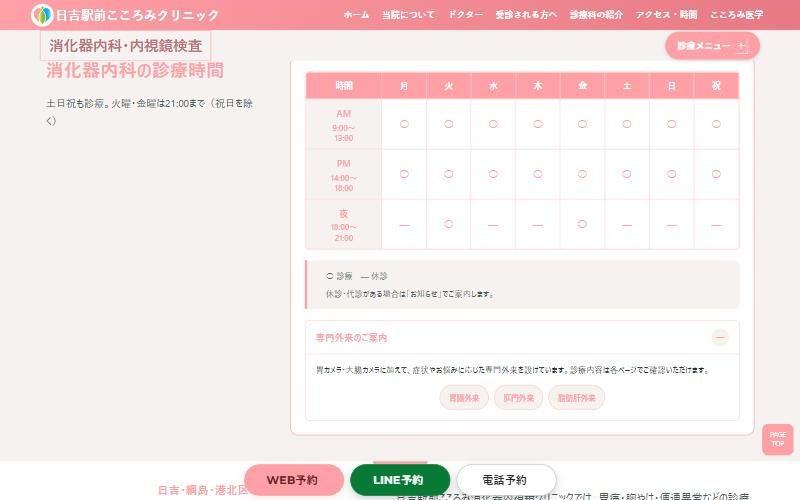
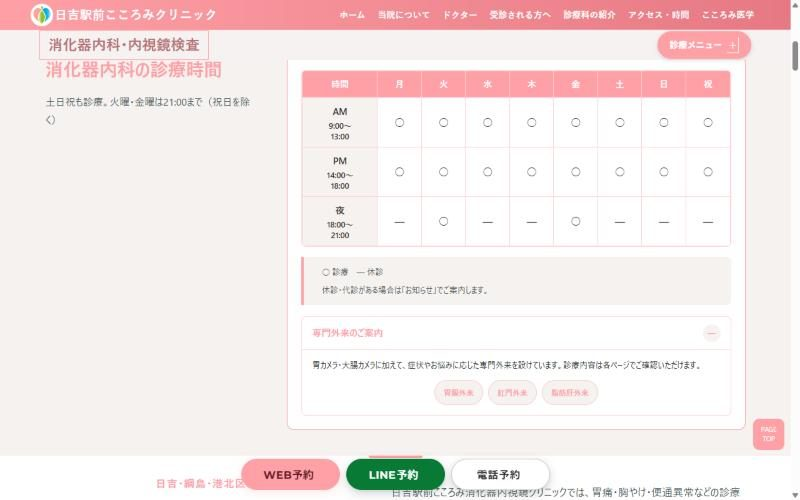
fix: 左下の小窓を外し、消化器の診療表と発熱外来の赤い面を落ち着かせる（v0.25.0）
- 見本の左下の黒い小窓を外す（8ページ）
- 消化器内科の診療表：時間の欄と ○・— を最初の画面の見出しと同じ墨 #34302F に
- 発熱外来：選ばれる3つの理由の緑の帯の前後の赤をベージュに、「日吉駅 直結0分 × 毎日 診療」の赤い帯を
  「受診前に確認したい記事」と同じ薄い赤に（2か所）、「予約優先制 WEBなら24時間受付」を小さく、
  画面下の赤い WEB予約ボタンの文字を白に

diff --git a/beige/index.html b/beige/index.html
@@ -4,7 +4,7 @@
 <meta charset="utf-8">
 <meta name="viewport" content="width=device-width, initial-scale=1">
 <meta name="robots" content="noindex,nofollow">
-<meta name="version" content="0.24.0">
+<meta name="version" content="0.25.0">
 <title>日吉 ベージュ統一の見本</title>
 <style>
 :root{--bg:#faf8f6;--card:#fff;--ink:#1f1d1b;--sub:#625b55;--line:#e6e0d9}
@@ -38,18 +38,35 @@ a:focus-visible{outline:3px solid #6a9bff;outline-offset:2px}
 <body>
 <main>
 <h1>日吉サイト ベージュで統一した見本（トップは総合内科の色）</h1>
-<p class="lead">「最初の画面の背景5パターン」のうち<b>2 ベージュ</b>を全科に採用し、<b>トップページを総合内科（ベージュ）と同じ色の見え方</b>で作った見本です。画像かページ名を押すと、本物と同じ作りのページが開きます（左下の小窓でページを移動できます）。本番サイトは変わっていません。</p>
+<p class="lead">「最初の画面の背景5パターン」のうち<b>2 ベージュ</b>を全科に採用し、<b>トップページを総合内科（ベージュ）と同じ色の見え方</b>で作った見本です。画像かページ名を押すと、本物と同じ作りのページが開きます（ページの中の診療科のリンクで、この見本の中を移動できます）。本番サイトは変わっていません。</p>
 <a class="go" href="top/">トップページを開く</a>
 
+<section class="box" aria-labelledby="v25-h">
+<h2 id="v25-h">今回（v0.25.0）変えたこと</h2>
+<ul>
+<li><b>画面左下の黒い小窓を外しました</b>（8ページすべて）</li>
+<li><b>消化器内科の診療表</b>：時間の欄（AM・PM・夜と時刻）と、各曜日の ○・— の文字を、最初の画面の「胃カメラ・大腸カメラが」と同じ墨 <code>#34302F</code> にしました。表の見出し行（ピンクの地に白い文字）はそのままです</li>
+<li><b>発熱外来「発熱外来が選ばれる3つの理由」</b>：緑の帯の前後に見えていた赤を、ベージュ <code>#F6F2F0</code> にしました。緑の帯はそのままです</li>
+<li><b>発熱外来「日吉駅 直結0分 × 毎日 診療」の赤い帯</b>：「受診前に確認したい記事」の囲みと同じ薄い赤にしました。地が薄くなったので、「直結0分」「毎日診療」「×」は発熱外来の赤、下の小さな文は濃い茶色の文字です。同じ帯がページの下の予約案内（「今日つらい」をその日にご相談）にもあるので、2か所とも同じにしました</li>
+<li><b>「予約優先制 WEBなら24時間受付」</b>：文字を小さくしました（約42px・75px → 約32px・49px。パソコン幅だけ。スマホ幅はもともと小さいので今のまま）。右上の小さな札が大きい文字にかからないよう、札を少し上げています</li>
+<li><b>画面の下の赤い「WEB予約」ボタン</b>：文字を白にしました（前は赤い地に濃いえんじの文字で読みにくかった）</li>
+</ul>
+<div class="shots">
+<a href="gastro/"><img src="img/gastro-hours.jpg" width="800" height="500" alt="消化器内科の診療表（時間と ○ を墨の文字に）" loading="lazy"><span>消化器：診療表</span></a>
+<a href="fever/"><img src="img/fever-reason.jpg" width="800" height="500" alt="発熱外来が選ばれる3つの理由（前後をベージュに）" loading="lazy"><span>発熱外来：選ばれる3つの理由</span></a>
+<a href="fever/"><img src="img/fever-booking.jpg" width="800" height="500" alt="予約優先制の案内（薄い赤の帯・小さくした文字・白い文字のWEB予約）" loading="lazy"><span>発熱外来：予約の案内と下のWEB予約</span></a>
+</div>
+</section>
+
 <section class="box" aria-labelledby="v24-h">
-<h2 id="v24-h">今回（v0.24.0）変えたこと</h2>
+<h2 id="v24-h">前回（v0.24.0）変えたこと</h2>
 <ul>
 <li><b>グロナビのロゴの後ろに白い丸</b>を敷きました（8ページすべて・スマホも）。ロゴの花びら（黄・緑・青＋そのページの色）がヘッダーの色に溶けて見えなかったためです。ヘッダーの色そのものは変えていません（薄くすると白いクリニック名・メニューが読めなくなるため）。ロゴとクリニック名の位置も変わっていません</li>
 <li><b>トップのロゴの花びら</b>（1枚だけページの色）を、ピンクから総合内科と同じオレンジにしました（ヘッダー・フッターの2か所）。各科のロゴも「花びら＝そのページの色」なので、それにそろえました</li>
 <li><b>消化器内科のページの薄いピンクの地をベージュに</b>しました。「消化器内科の診療時間」「こんなお悩み・症状はありませんか?」と、同じピンクの地を使っていた「検査の流れ」「よくある質問」の4つの帯です（2つだけ変えると、ベージュとピンクの帯が交互に並ぶため）。中の薄いピンクの地（表の曜日の欄・注意書き・症状の見出しなど）もベージュにしました。文字・チェックの印・表の見出し行・線は消化器のピンクのままです</li>
 </ul>
 <div class="shots">
-<a href="gastro/"><img src="img/gastro-hours.jpg" width="800" height="500" alt="消化器内科の診療時間（ベージュの地）" loading="lazy"><span>消化器：診療時間</span></a>
+<a href="gastro/"><img src="img/gastro-hours.jpg" width="800" height="500" alt="消化器内科の診療時間（ベージュの地）" loading="lazy"><span>消化器：診療時間（v0.25.0 の表の文字の色も反映）</span></a>
 <a href="gastro/"><img src="img/gastro-problems.jpg" width="800" height="500" alt="こんなお悩み・症状はありませんか?（ベージュの地）" loading="lazy"><span>消化器：お悩み・症状</span></a>
 </div>
 </section>

diff --git a/beige/assets/bge.css b/beige/assets/bge.css
@@ -46,3 +46,41 @@ html.bge:not(#_a):not(#_b) body#gastroenterology-endoscopy #department-visit-inf
 html.bge:not(#_a):not(#_b) body#gastroenterology-endoscopy #front-probrems .div-section-content > .div-probrems{background:color-mix(in srgb,#BFAFAE 28%,#F6F2F0)!important}
 html.bge:not(#_a):not(#_b) body#gastroenterology-endoscopy #front-probrems .div-probrems-section dl.dl-probrems > dt,
 html.bge:not(#_a):not(#_b) body#gastroenterology-endoscopy #front-probrems .p-solution-catchline{background:#F6F2F0!important}
+
+/* ===== 消化器内科の診療表の文字を墨に（v0.25.0） =====
+   ご依頼（2026-11-26）：「消化器内科の診療表がかわいらしすぎる。時間等の文字色をトップの「胃カメラ・大腸カメラが」と同じ文字色にして」
+   「胃カメラ・大腸カメラが」（最初の画面の見出し）の色＝ベージュの文字の墨 #34302F（fvp.css の --fv-ink）。
+   表の中の時間の欄（AM・PM・夜と時刻）と、各曜日の ○・— を墨に。表の見出し行（ピンクの地・白い文字）、表の外の見出し「消化器内科の診療時間」、専門外来の案内はそのまま */
+html.bge:not(#_a):not(#_b) body#gastroenterology-endoscopy #department-visit-info .department-visit-info__table tbody :is(th,td),
+html.bge:not(#_a):not(#_b) body#gastroenterology-endoscopy #department-visit-info .department-visit-info__table tbody :is(th,td) *{color:#34302F!important}
+
+/* ===== 発熱外来のページ（v0.25.0） ===== */
+/* 「発熱外来が選ばれる3つの理由」：緑の帯の前後に見えていた赤（--dp-deep）をベージュに
+   ご依頼「背景緑の前後の赤とのコントラストがきつすぎる。前後の赤の背景は、ベージュにして」。緑の帯はそのまま */
+html.bge:not(#_a):not(#_b) body#fever main #front-reason{background:#F6F2F0!important}
+
+/* 「日吉駅 直結0分 × 毎日 診療」の赤い帯を、「受診前に確認したい記事」の囲みと同じ薄い赤に
+   ご依頼「赤で面積が大きいので目立ちすぎ。「受診前に確認したい記事」の背景色につかってる薄い赤にして」
+   同じ帯がページの下の「発熱・せき・のどの痛み」の予約案内にもあるので、2か所とも（最初の画面の中の同じ部品は除く）。
+   地が薄くなるので、白かった文字は「直結0分」「毎日診療」「×」を発熱外来の赤、下の小さな文は「受診前に確認したい記事」の囲みの文字の色に */
+html.bge:not(#_a):not(#_b) body#fever .section-cta .div-cta-catchline{background-color:var(--reservation-soft,color-mix(in srgb,var(--jt-tint,var(--jt-main)) 12%,#fff))!important}
+html.bge:not(#_a):not(#_b) body#fever .section-cta .div-cta-catchline :is(li,li *,.multiply){color:var(--jfever-main)!important}
+html.bge:not(#_a):not(#_b) body#fever .section-cta .div-cta-catchline .p-cta-catchline{color:#3F3933!important}
+
+/* 「予約優先制 WEBなら24時間受付」の文字を小さく（パソコン幅。スマホ幅は今のまま）
+   ご依頼「このフォントサイズも大きすぎるので、もう少し小さく」。
+   サイト側のスマホ幅の大きさ（3.6rem・5.6rem＝約32px・49px）にそろえた（前は約42px・75px） */
+@media (min-width:769px){
+  html.bge:not(#_a):not(#_b) body#fever .dept-compact-booking .div-cta-title .h-cta-subtitle{font-size:3.6rem!important}
+  html.bge:not(#_a):not(#_b) body#fever .dept-compact-booking .div-cta-title .h-cta-subtitle > strong{font-size:5.6rem!important}
+  /* 右上の小さな札「発熱・かぜ症状は、その日にご相談ください」は大きい文字の右端に付く作りで、文字を小さくすると左に寄って
+     「WEBなら24時間受付」の上端にかかった → 札の下げ幅（サイト側 translateY(2rem)）を 1rem に */
+  html.bge:not(#_a):not(#_b) body#fever .dept-compact-booking .div-cta-title .h-cta-title{transform:translateY(1rem)!important}
+}
+
+/* 画面の下に固定の「WEB予約」（赤いボタン）の文字を白に
+   ご依頼「画面下の web予約ボタン 赤いやつ。文字は白地に」。いまは赤 #BF3F48 の上に濃いえんじ（約 2.4:1）で読みにくい。白なら 5.2:1
+   ボタンの文字色はサイトのスクリプトが要素の style に「color:var(--reservation-sticky-text)!important」と直接書くので、CSS の color では勝てない。
+   その変数（ふだんは html の濃いえんじ）を、このボタンの上でだけ白に置き直す */
+html.bge:not(#_a):not(#_b) body#fever #cta :is(.a-button-cta-web,.reservation-sticky-web),
+html.bge:not(#_a):not(#_b) body#fever #cta :is(.a-button-cta-web,.reservation-sticky-web) *{--reservation-sticky-text:#fff!important;color:#fff!important}

diff --git a/beige/checkups/index.html b/beige/checkups/index.html
@@ -5,9 +5,9 @@
 <meta name="robots" content="noindex,nofollow">
 <script>document.documentElement.classList.add("fvp","fvr","fv2","fvL","bge");</script>
 
-<link rel="stylesheet" href="../assets/sample.css?v=0.24.0">
-<link rel="stylesheet" href="../assets/fvp.css?v=0.24.0">
-<link rel="stylesheet" href="../assets/bge.css?v=0.24.0">
+<link rel="stylesheet" href="../assets/sample.css?v=0.25.0">
+<link rel="stylesheet" href="../assets/fvp.css?v=0.25.0">
+<link rel="stylesheet" href="../assets/bge.css?v=0.25.0">
 
 
 
@@ -1675,7 +1675,7 @@ margin-block-end: 24px;
 var e="script#wp-emoji-settings",t=document.querySelector(e);if(!(t instanceof HTMLScriptElement))throw new Error("Element missing: "+e);const r=JSON.parse(t.text),s=(window._wpemojiSettings=r,"wpEmojiSettingsSupports"),o=["flag","emoji"];function i(e){try{var t={supportTests:e,timestamp:(new Date).valueOf()};sessionStorage.setItem(s,JSON.stringify(t))}catch(e){}}function c(e,t,n){e.clearRect(0,0,e.canvas.width,e.canvas.height),e.fillText(t,0,0);t=new Uint32Array(e.getImageData(0,0,e.canvas.width,e.canvas.height).data);e.clearRect(0,0,e.canvas.width,e.canvas.height),e.fillText(n,0,0);const r=new Uint32Array(e.getImageData(0,0,e.canvas.width,e.canvas.height).data);return t.every((e,t)=>e===r[t])}function p(e,t){e.clearRect(0,0,e.canvas.width,e.canvas.height),e.fillText(t,0,0);var n=e.getImageData(16,16,1,1);for(let e=0;e<n.data.length;e++)if(0!==n.data[e])return!1;return!0}function u(e,t,n,r){switch(t){case"flag":return n(e,"\ud83c\udff3\ufe0f\u200d\u26a7\ufe0f","\ud83c\udff3\ufe0f\u200b\u26a7\ufe0f")?!1:!n(e,"\ud83c\udde8\ud83c\uddf6","\ud83c\udde8\u200b\ud83c\uddf6")&&!n(e,"\ud83c\udff4\udb40\udc67\udb40\udc62\udb40\udc65\udb40\udc6e\udb40\udc67\udb40\udc7f","\ud83c\udff4\u200b\udb40\udc67\u200b\udb40\udc62\u200b\udb40\udc65\u200b\udb40\udc6e\u200b\udb40\udc67\u200b\udb40\udc7f");case"emoji":return!r(e,"\ud83e\u1fac8")}return!1}function f(e,t,n,r){let a;const s=(a="undefined"!=typeof WorkerGlobalScope&&self instanceof WorkerGlobalScope?new OffscreenCanvas(300,150):document.createElement("canvas")).getContext("2d",{willReadFrequently:!0}),o=(s.textBaseline="top",s.font="600 32px Arial",{});return e.forEach(e=>{o[e]=t(s,e,n,r)}),o}function a(e){var t=document.createElement("script");t.src=e,t.defer=!0,document.head.appendChild(t)}r.supports={everything:!0,everythingExceptFlag:!0},new Promise(t=>{let n=function(){try{var e=JSON.parse(sessionStorage.getItem(s));if("object"==typeof e&&"number"==typeof e.timestamp&&(new Date).valueOf()<e.timestamp+604800&&"object"==typeof e.supportTests)return e.supportTests}catch(e){}return null}();if(!n){if("undefined"!=typeof Worker&&"undefined"!=typeof OffscreenCanvas&&"undefined"!=typeof URL&&URL.createObjectURL&&"undefined"!=typeof Blob)try{var e="postMessage("+f.toString()+"("+[JSON.stringify(o),u.toString(),c.toString(),p.toString()].join(",")+"));",r=new Blob([e],{type:"text/javascript"});const a=new Worker(URL.createObjectURL(r),{name:"wpTestEmojiSupports"});return void(a.onmessage=e=>{i(n=e.data),a.terminate(),t(n)})}catch(e){}i(n=f(o,u,c,p))}t(n)}).then(e=>{for(const n in e)r.supports[n]=e[n],r.supports.everything=r.supports.everything&&r.supports[n],"flag"!==n&&(r.supports.everythingExceptFlag=r.supports.everythingExceptFlag&&r.supports[n]);var t;r.supports.everythingExceptFlag=r.supports.everythingExceptFlag&&!r.supports.flag,r.supports.everything||((t=r.source||{}).concatemoji?a(t.concatemoji):t.wpemoji&&t.twemoji&&(a(t.twemoji),a(t.wpemoji)))});
 //# sourceURL=https://hiyoshi-cocoromi-cl.jp/wp-includes/js/wp-emoji-loader.min.js
 </script>
-  <script src="../assets/bge.js?v=0.24.0" data-page="checkups"></script>
+  <!-- 見本の左下の小窓は v0.25.0 で外した -->
 </body>
 </html>
 

diff --git a/beige/general/index.html b/beige/general/index.html
@@ -5,9 +5,9 @@
 <meta name="robots" content="noindex,nofollow">
 <script>document.documentElement.classList.add("fvp","fvr","fv2","fvL","bge");</script>
 
-<link rel="stylesheet" href="../assets/sample.css?v=0.24.0">
-<link rel="stylesheet" href="../assets/fvp.css?v=0.24.0">
-<link rel="stylesheet" href="../assets/bge.css?v=0.24.0">
+<link rel="stylesheet" href="../assets/sample.css?v=0.25.0">
+<link rel="stylesheet" href="../assets/fvp.css?v=0.25.0">
+<link rel="stylesheet" href="../assets/bge.css?v=0.25.0">
 
 
 
@@ -1951,7 +1951,7 @@ margin-block-end: 24px;
 var e="script#wp-emoji-settings",t=document.querySelector(e);if(!(t instanceof HTMLScriptElement))throw new Error("Element missing: "+e);const r=JSON.parse(t.text),s=(window._wpemojiSettings=r,"wpEmojiSettingsSupports"),o=["flag","emoji"];function i(e){try{var t={supportTests:e,timestamp:(new Date).valueOf()};sessionStorage.setItem(s,JSON.stringify(t))}catch(e){}}function c(e,t,n){e.clearRect(0,0,e.canvas.width,e.canvas.height),e.fillText(t,0,0);t=new Uint32Array(e.getImageData(0,0,e.canvas.width,e.canvas.height).data);e.clearRect(0,0,e.canvas.width,e.canvas.height),e.fillText(n,0,0);const r=new Uint32Array(e.getImageData(0,0,e.canvas.width,e.canvas.height).data);return t.every((e,t)=>e===r[t])}function p(e,t){e.clearRect(0,0,e.canvas.width,e.canvas.height),e.fillText(t,0,0);var n=e.getImageData(16,16,1,1);for(let e=0;e<n.data.length;e++)if(0!==n.data[e])return!1;return!0}function u(e,t,n,r){switch(t){case"flag":return n(e,"\ud83c\udff3\ufe0f\u200d\u26a7\ufe0f","\ud83c\udff3\ufe0f\u200b\u26a7\ufe0f")?!1:!n(e,"\ud83c\udde8\ud83c\uddf6","\ud83c\udde8\u200b\ud83c\uddf6")&&!n(e,"\ud83c\udff4\udb40\udc67\udb40\udc62\udb40\udc65\udb40\udc6e\udb40\udc67\udb40\udc7f","\ud83c\udff4\u200b\udb40\udc67\u200b\udb40\udc62\u200b\udb40\udc65\u200b\udb40\udc6e\u200b\udb40\udc67\u200b\udb40\udc7f");case"emoji":return!r(e,"\ud83e\u1fac8")}return!1}function f(e,t,n,r){let a;const s=(a="undefined"!=typeof WorkerGlobalScope&&self instanceof WorkerGlobalScope?new OffscreenCanvas(300,150):document.createElement("canvas")).getContext("2d",{willReadFrequently:!0}),o=(s.textBaseline="top",s.font="600 32px Arial",{});return e.forEach(e=>{o[e]=t(s,e,n,r)}),o}function a(e){var t=document.createElement("script");t.src=e,t.defer=!0,document.head.appendChild(t)}r.supports={everything:!0,everythingExceptFlag:!0},new Promise(t=>{let n=function(){try{var e=JSON.parse(sessionStorage.getItem(s));if("object"==typeof e&&"number"==typeof e.timestamp&&(new Date).valueOf()<e.timestamp+604800&&"object"==typeof e.supportTests)return e.supportTests}catch(e){}return null}();if(!n){if("undefined"!=typeof Worker&&"undefined"!=typeof OffscreenCanvas&&"undefined"!=typeof URL&&URL.createObjectURL&&"undefined"!=typeof Blob)try{var e="postMessage("+f.toString()+"("+[JSON.stringify(o),u.toString(),c.toString(),p.toString()].join(",")+"));",r=new Blob([e],{type:"text/javascript"});const a=new Worker(URL.createObjectURL(r),{name:"wpTestEmojiSupports"});return void(a.onmessage=e=>{i(n=e.data),a.terminate(),t(n)})}catch(e){}i(n=f(o,u,c,p))}t(n)}).then(e=>{for(const n in e)r.supports[n]=e[n],r.supports.everything=r.supports.everything&&r.supports[n],"flag"!==n&&(r.supports.everythingExceptFlag=r.supports.everythingExceptFlag&&r.supports[n]);var t;r.supports.everythingExceptFlag=r.supports.everythingExceptFlag&&!r.supports.flag,r.supports.everything||((t=r.source||{}).concatemoji?a(t.concatemoji):t.wpemoji&&t.twemoji&&(a(t.twemoji),a(t.wpemoji)))});
 //# sourceURL=https://hiyoshi-cocoromi-cl.jp/wp-includes/js/wp-emoji-loader.min.js
 </script>
-  <script src="../assets/bge.js?v=0.24.0" data-page="general"></script>
+  <!-- 見本の左下の小窓は v0.25.0 で外した -->
 </body>
 </html>
 

diff --git a/beige/gastro/index.html b/beige/gastro/index.html
@@ -5,9 +5,9 @@
 <meta name="robots" content="noindex,nofollow">
 <script>document.documentElement.classList.add("fvp","fvr","fv2","fvL","bge");</script>
 
-<link rel="stylesheet" href="../assets/sample.css?v=0.24.0">
-<link rel="stylesheet" href="../assets/fvp.css?v=0.24.0">
-<link rel="stylesheet" href="../assets/bge.css?v=0.24.0">
+<link rel="stylesheet" href="../assets/sample.css?v=0.25.0">
+<link rel="stylesheet" href="../assets/fvp.css?v=0.25.0">
+<link rel="stylesheet" href="../assets/bge.css?v=0.25.0">
 
 
 
@@ -2148,7 +2148,7 @@ margin-block-end: 24px;
 var e="script#wp-emoji-settings",t=document.querySelector(e);if(!(t instanceof HTMLScriptElement))throw new Error("Element missing: "+e);const r=JSON.parse(t.text),s=(window._wpemojiSettings=r,"wpEmojiSettingsSupports"),o=["flag","emoji"];function i(e){try{var t={supportTests:e,timestamp:(new Date).valueOf()};sessionStorage.setItem(s,JSON.stringify(t))}catch(e){}}function c(e,t,n){e.clearRect(0,0,e.canvas.width,e.canvas.height),e.fillText(t,0,0);t=new Uint32Array(e.getImageData(0,0,e.canvas.width,e.canvas.height).data);e.clearRect(0,0,e.canvas.width,e.canvas.height),e.fillText(n,0,0);const r=new Uint32Array(e.getImageData(0,0,e.canvas.width,e.canvas.height).data);return t.every((e,t)=>e===r[t])}function p(e,t){e.clearRect(0,0,e.canvas.width,e.canvas.height),e.fillText(t,0,0);var n=e.getImageData(16,16,1,1);for(let e=0;e<n.data.length;e++)if(0!==n.data[e])return!1;return!0}function u(e,t,n,r){switch(t){case"flag":return n(e,"\ud83c\udff3\ufe0f\u200d\u26a7\ufe0f","\ud83c\udff3\ufe0f\u200b\u26a7\ufe0f")?!1:!n(e,"\ud83c\udde8\ud83c\uddf6","\ud83c\udde8\u200b\ud83c\uddf6")&&!n(e,"\ud83c\udff4\udb40\udc67\udb40\udc62\udb40\udc65\udb40\udc6e\udb40\udc67\udb40\udc7f","\ud83c\udff4\u200b\udb40\udc67\u200b\udb40\udc62\u200b\udb40\udc65\u200b\udb40\udc6e\u200b\udb40\udc67\u200b\udb40\udc7f");case"emoji":return!r(e,"\ud83e\u1fac8")}return!1}function f(e,t,n,r){let a;const s=(a="undefined"!=typeof WorkerGlobalScope&&self instanceof WorkerGlobalScope?new OffscreenCanvas(300,150):document.createElement("canvas")).getContext("2d",{willReadFrequently:!0}),o=(s.textBaseline="top",s.font="600 32px Arial",{});return e.forEach(e=>{o[e]=t(s,e,n,r)}),o}function a(e){var t=document.createElement("script");t.src=e,t.defer=!0,document.head.appendChild(t)}r.supports={everything:!0,everythingExceptFlag:!0},new Promise(t=>{let n=function(){try{var e=JSON.parse(sessionStorage.getItem(s));if("object"==typeof e&&"number"==typeof e.timestamp&&(new Date).valueOf()<e.timestamp+604800&&"object"==typeof e.supportTests)return e.supportTests}catch(e){}return null}();if(!n){if("undefined"!=typeof Worker&&"undefined"!=typeof OffscreenCanvas&&"undefined"!=typeof URL&&URL.createObjectURL&&"undefined"!=typeof Blob)try{var e="postMessage("+f.toString()+"("+[JSON.stringify(o),u.toString(),c.toString(),p.toString()].join(",")+"));",r=new Blob([e],{type:"text/javascript"});const a=new Worker(URL.createObjectURL(r),{name:"wpTestEmojiSupports"});return void(a.onmessage=e=>{i(n=e.data),a.terminate(),t(n)})}catch(e){}i(n=f(o,u,c,p))}t(n)}).then(e=>{for(const n in e)r.supports[n]=e[n],r.supports.everything=r.supports.everything&&r.supports[n],"flag"!==n&&(r.supports.everythingExceptFlag=r.supports.everythingExceptFlag&&r.supports[n]);var t;r.supports.everythingExceptFlag=r.supports.everythingExceptFlag&&!r.supports.flag,r.supports.everything||((t=r.source||{}).concatemoji?a(t.concatemoji):t.wpemoji&&t.twemoji&&(a(t.twemoji),a(t.wpemoji)))});
 //# sourceURL=https://hiyoshi-cocoromi-cl.jp/wp-includes/js/wp-emoji-loader.min.js
 </script>
-  <script src="../assets/bge.js?v=0.24.0" data-page="gastro"></script>
+  <!-- 見本の左下の小窓は v0.25.0 で外した -->
 </body>
 </html>
 

diff --git a/beige/mental/index.html b/beige/mental/index.html
@@ -5,9 +5,9 @@
 <meta name="robots" content="noindex,nofollow">
 <script>document.documentElement.classList.add("fvp","fvr","fv2","fvL","bge");</script>
 
-<link rel="stylesheet" href="../assets/sample.css?v=0.24.0">
-<link rel="stylesheet" href="../assets/fvp.css?v=0.24.0">
-<link rel="stylesheet" href="../assets/bge.css?v=0.24.0">
+<link rel="stylesheet" href="../assets/sample.css?v=0.25.0">
+<link rel="stylesheet" href="../assets/fvp.css?v=0.25.0">
+<link rel="stylesheet" href="../assets/bge.css?v=0.25.0">
 
 
 
@@ -1376,7 +1376,7 @@ margin-block-end: 24px;
 var e="script#wp-emoji-settings",t=document.querySelector(e);if(!(t instanceof HTMLScriptElement))throw new Error("Element missing: "+e);const r=JSON.parse(t.text),s=(window._wpemojiSettings=r,"wpEmojiSettingsSupports"),o=["flag","emoji"];function i(e){try{var t={supportTests:e,timestamp:(new Date).valueOf()};sessionStorage.setItem(s,JSON.stringify(t))}catch(e){}}function c(e,t,n){e.clearRect(0,0,e.canvas.width,e.canvas.height),e.fillText(t,0,0);t=new Uint32Array(e.getImageData(0,0,e.canvas.width,e.canvas.height).data);e.clearRect(0,0,e.canvas.width,e.canvas.height),e.fillText(n,0,0);const r=new Uint32Array(e.getImageData(0,0,e.canvas.width,e.canvas.height).data);return t.every((e,t)=>e===r[t])}function p(e,t){e.clearRect(0,0,e.canvas.width,e.canvas.height),e.fillText(t,0,0);var n=e.getImageData(16,16,1,1);for(let e=0;e<n.data.length;e++)if(0!==n.data[e])return!1;return!0}function u(e,t,n,r){switch(t){case"flag":return n(e,"\ud83c\udff3\ufe0f\u200d\u26a7\ufe0f","\ud83c\udff3\ufe0f\u200b\u26a7\ufe0f")?!1:!n(e,"\ud83c\udde8\ud83c\uddf6","\ud83c\udde8\u200b\ud83c\uddf6")&&!n(e,"\ud83c\udff4\udb40\udc67\udb40\udc62\udb40\udc65\udb40\udc6e\udb40\udc67\udb40\udc7f","\ud83c\udff4\u200b\udb40\udc67\u200b\udb40\udc62\u200b\udb40\udc65\u200b\udb40\udc6e\u200b\udb40\udc67\u200b\udb40\udc7f");case"emoji":return!r(e,"\ud83e\u1fac8")}return!1}function f(e,t,n,r){let a;const s=(a="undefined"!=typeof WorkerGlobalScope&&self instanceof WorkerGlobalScope?new OffscreenCanvas(300,150):document.createElement("canvas")).getContext("2d",{willReadFrequently:!0}),o=(s.textBaseline="top",s.font="600 32px Arial",{});return e.forEach(e=>{o[e]=t(s,e,n,r)}),o}function a(e){var t=document.createElement("script");t.src=e,t.defer=!0,document.head.appendChild(t)}r.supports={everything:!0,everythingExceptFlag:!0},new Promise(t=>{let n=function(){try{var e=JSON.parse(sessionStorage.getItem(s));if("object"==typeof e&&"number"==typeof e.timestamp&&(new Date).valueOf()<e.timestamp+604800&&"object"==typeof e.supportTests)return e.supportTests}catch(e){}return null}();if(!n){if("undefined"!=typeof Worker&&"undefined"!=typeof OffscreenCanvas&&"undefined"!=typeof URL&&URL.createObjectURL&&"undefined"!=typeof Blob)try{var e="postMessage("+f.toString()+"("+[JSON.stringify(o),u.toString(),c.toString(),p.toString()].join(",")+"));",r=new Blob([e],{type:"text/javascript"});const a=new Worker(URL.createObjectURL(r),{name:"wpTestEmojiSupports"});return void(a.onmessage=e=>{i(n=e.data),a.terminate(),t(n)})}catch(e){}i(n=f(o,u,c,p))}t(n)}).then(e=>{for(const n in e)r.supports[n]=e[n],r.supports.everything=r.supports.everything&&r.supports[n],"flag"!==n&&(r.supports.everythingExceptFlag=r.supports.everythingExceptFlag&&r.supports[n]);var t;r.supports.everythingExceptFlag=r.supports.everythingExceptFlag&&!r.supports.flag,r.supports.everything||((t=r.source||{}).concatemoji?a(t.concatemoji):t.wpemoji&&t.twemoji&&(a(t.twemoji),a(t.wpemoji)))});
 //# sourceURL=https://hiyoshi-cocoromi-cl.jp/wp-includes/js/wp-emoji-loader.min.js
 </script>
-  <script src="../assets/bge.js?v=0.24.0" data-page="mental"></script>
+  <!-- 見本の左下の小窓は v0.25.0 で外した -->
 </body>
 </html>
 

diff --git a/beige/fever/index.html b/beige/fever/index.html
@@ -4,9 +4,9 @@
 <meta name="robots" content="noindex,nofollow">
 <script>document.documentElement.classList.add("fvp","fvr","fv2","fvL","bge");</script>
 
-<link rel="stylesheet" href="../assets/sample.css?v=0.24.0">
-<link rel="stylesheet" href="../assets/fvp.css?v=0.24.0">
-<link rel="stylesheet" href="../assets/bge.css?v=0.24.0">
+<link rel="stylesheet" href="../assets/sample.css?v=0.25.0">
+<link rel="stylesheet" href="../assets/fvp.css?v=0.25.0">
+<link rel="stylesheet" href="../assets/bge.css?v=0.25.0">
 
 
 
@@ -1502,7 +1502,7 @@ margin-block-end: 24px;
 var e="script#wp-emoji-settings",t=document.querySelector(e);if(!(t instanceof HTMLScriptElement))throw new Error("Element missing: "+e);const r=JSON.parse(t.text),s=(window._wpemojiSettings=r,"wpEmojiSettingsSupports"),o=["flag","emoji"];function i(e){try{var t={supportTests:e,timestamp:(new Date).valueOf()};sessionStorage.setItem(s,JSON.stringify(t))}catch(e){}}function c(e,t,n){e.clearRect(0,0,e.canvas.width,e.canvas.height),e.fillText(t,0,0);t=new Uint32Array(e.getImageData(0,0,e.canvas.width,e.canvas.height).data);e.clearRect(0,0,e.canvas.width,e.canvas.height),e.fillText(n,0,0);const r=new Uint32Array(e.getImageData(0,0,e.canvas.width,e.canvas.height).data);return t.every((e,t)=>e===r[t])}function p(e,t){e.clearRect(0,0,e.canvas.width,e.canvas.height),e.fillText(t,0,0);var n=e.getImageData(16,16,1,1);for(let e=0;e<n.data.length;e++)if(0!==n.data[e])return!1;return!0}function u(e,t,n,r){switch(t){case"flag":return n(e,"\ud83c\udff3\ufe0f\u200d\u26a7\ufe0f","\ud83c\udff3\ufe0f\u200b\u26a7\ufe0f")?!1:!n(e,"\ud83c\udde8\ud83c\uddf6","\ud83c\udde8\u200b\ud83c\uddf6")&&!n(e,"\ud83c\udff4\udb40\udc67\udb40\udc62\udb40\udc65\udb40\udc6e\udb40\udc67\udb40\udc7f","\ud83c\udff4\u200b\udb40\udc67\u200b\udb40\udc62\u200b\udb40\udc65\u200b\udb40\udc6e\u200b\udb40\udc67\u200b\udb40\udc7f");case"emoji":return!r(e,"\ud83e\u1fac8")}return!1}function f(e,t,n,r){let a;const s=(a="undefined"!=typeof WorkerGlobalScope&&self instanceof WorkerGlobalScope?new OffscreenCanvas(300,150):document.createElement("canvas")).getContext("2d",{willReadFrequently:!0}),o=(s.textBaseline="top",s.font="600 32px Arial",{});return e.forEach(e=>{o[e]=t(s,e,n,r)}),o}function a(e){var t=document.createElement("script");t.src=e,t.defer=!0,document.head.appendChild(t)}r.supports={everything:!0,everythingExceptFlag:!0},new Promise(t=>{let n=function(){try{var e=JSON.parse(sessionStorage.getItem(s));if("object"==typeof e&&"number"==typeof e.timestamp&&(new Date).valueOf()<e.timestamp+604800&&"object"==typeof e.supportTests)return e.supportTests}catch(e){}return null}();if(!n){if("undefined"!=typeof Worker&&"undefined"!=typeof OffscreenCanvas&&"undefined"!=typeof URL&&URL.createObjectURL&&"undefined"!=typeof Blob)try{var e="postMessage("+f.toString()+"("+[JSON.stringify(o),u.toString(),c.toString(),p.toString()].join(",")+"));",r=new Blob([e],{type:"text/javascript"});const a=new Worker(URL.createObjectURL(r),{name:"wpTestEmojiSupports"});return void(a.onmessage=e=>{i(n=e.data),a.terminate(),t(n)})}catch(e){}i(n=f(o,u,c,p))}t(n)}).then(e=>{for(const n in e)r.supports[n]=e[n],r.supports.everything=r.supports.everything&&r.supports[n],"flag"!==n&&(r.supports.everythingExceptFlag=r.supports.everythingExceptFlag&&r.supports[n]);var t;r.supports.everythingExceptFlag=r.supports.everythingExceptFlag&&!r.supports.flag,r.supports.everything||((t=r.source||{}).concatemoji?a(t.concatemoji):t.wpemoji&&t.twemoji&&(a(t.twemoji),a(t.wpemoji)))});
 //# sourceURL=https://hiyoshi-cocoromi-cl.jp/wp-includes/js/wp-emoji-loader.min.js
 </script>
-  <script src="../assets/bge.js?v=0.24.0" data-page="fever"></script>
+  <!-- 見本の左下の小窓は v0.25.0 で外した -->
 </body>
 </html>
 

diff --git a/beige/derm/index.html b/beige/derm/index.html
@@ -5,9 +5,9 @@
 <meta name="robots" content="noindex,nofollow">
 <script>document.documentElement.classList.add("fvp","fvr","fv2","fvL","bge");</script>
 
-<link rel="stylesheet" href="../assets/sample.css?v=0.24.0">
-<link rel="stylesheet" href="../assets/fvp.css?v=0.24.0">
-<link rel="stylesheet" href="../assets/bge.css?v=0.24.0">
+<link rel="stylesheet" href="../assets/sample.css?v=0.25.0">
+<link rel="stylesheet" href="../assets/fvp.css?v=0.25.0">
+<link rel="stylesheet" href="../assets/bge.css?v=0.25.0">
 
 
 
@@ -1525,7 +1525,7 @@ margin-block-end: 24px;
 var e="script#wp-emoji-settings",t=document.querySelector(e);if(!(t instanceof HTMLScriptElement))throw new Error("Element missing: "+e);const r=JSON.parse(t.text),s=(window._wpemojiSettings=r,"wpEmojiSettingsSupports"),o=["flag","emoji"];function i(e){try{var t={supportTests:e,timestamp:(new Date).valueOf()};sessionStorage.setItem(s,JSON.stringify(t))}catch(e){}}function c(e,t,n){e.clearRect(0,0,e.canvas.width,e.canvas.height),e.fillText(t,0,0);t=new Uint32Array(e.getImageData(0,0,e.canvas.width,e.canvas.height).data);e.clearRect(0,0,e.canvas.width,e.canvas.height),e.fillText(n,0,0);const r=new Uint32Array(e.getImageData(0,0,e.canvas.width,e.canvas.height).data);return t.every((e,t)=>e===r[t])}function p(e,t){e.clearRect(0,0,e.canvas.width,e.canvas.height),e.fillText(t,0,0);var n=e.getImageData(16,16,1,1);for(let e=0;e<n.data.length;e++)if(0!==n.data[e])return!1;return!0}function u(e,t,n,r){switch(t){case"flag":return n(e,"\ud83c\udff3\ufe0f\u200d\u26a7\ufe0f","\ud83c\udff3\ufe0f\u200b\u26a7\ufe0f")?!1:!n(e,"\ud83c\udde8\ud83c\uddf6","\ud83c\udde8\u200b\ud83c\uddf6")&&!n(e,"\ud83c\udff4\udb40\udc67\udb40\udc62\udb40\udc65\udb40\udc6e\udb40\udc67\udb40\udc7f","\ud83c\udff4\u200b\udb40\udc67\u200b\udb40\udc62\u200b\udb40\udc65\u200b\udb40\udc6e\u200b\udb40\udc67\u200b\udb40\udc7f");case"emoji":return!r(e,"\ud83e\u1fac8")}return!1}function f(e,t,n,r){let a;const s=(a="undefined"!=typeof WorkerGlobalScope&&self instanceof WorkerGlobalScope?new OffscreenCanvas(300,150):document.createElement("canvas")).getContext("2d",{willReadFrequently:!0}),o=(s.textBaseline="top",s.font="600 32px Arial",{});return e.forEach(e=>{o[e]=t(s,e,n,r)}),o}function a(e){var t=document.createElement("script");t.src=e,t.defer=!0,document.head.appendChild(t)}r.supports={everything:!0,everythingExceptFlag:!0},new Promise(t=>{let n=function(){try{var e=JSON.parse(sessionStorage.getItem(s));if("object"==typeof e&&"number"==typeof e.timestamp&&(new Date).valueOf()<e.timestamp+604800&&"object"==typeof e.supportTests)return e.supportTests}catch(e){}return null}();if(!n){if("undefined"!=typeof Worker&&"undefined"!=typeof OffscreenCanvas&&"undefined"!=typeof URL&&URL.createObjectURL&&"undefined"!=typeof Blob)try{var e="postMessage("+f.toString()+"("+[JSON.stringify(o),u.toString(),c.toString(),p.toString()].join(",")+"));",r=new Blob([e],{type:"text/javascript"});const a=new Worker(URL.createObjectURL(r),{name:"wpTestEmojiSupports"});return void(a.onmessage=e=>{i(n=e.data),a.terminate(),t(n)})}catch(e){}i(n=f(o,u,c,p))}t(n)}).then(e=>{for(const n in e)r.supports[n]=e[n],r.supports.everything=r.supports.everything&&r.supports[n],"flag"!==n&&(r.supports.everythingExceptFlag=r.supports.everythingExceptFlag&&r.supports[n]);var t;r.supports.everythingExceptFlag=r.supports.everythingExceptFlag&&!r.supports.flag,r.supports.everything||((t=r.source||{}).concatemoji?a(t.concatemoji):t.wpemoji&&t.twemoji&&(a(t.twemoji),a(t.wpemoji)))});
 //# sourceURL=https://hiyoshi-cocoromi-cl.jp/wp-includes/js/wp-emoji-loader.min.js
 </script>
-  <script src="../assets/bge.js?v=0.24.0" data-page="derm"></script>
+  <!-- 見本の左下の小窓は v0.25.0 で外した -->
 </body>
 </html>
 

diff --git a/beige/ent/index.html b/beige/ent/index.html
@@ -5,9 +5,9 @@
 <meta name="robots" content="noindex,nofollow">
 <script>document.documentElement.classList.add("fvp","fvr","fv2","fvL","bge");</script>
 
-<link rel="stylesheet" href="../assets/sample.css?v=0.24.0">
-<link rel="stylesheet" href="../assets/fvp.css?v=0.24.0">
-<link rel="stylesheet" href="../assets/bge.css?v=0.24.0">
+<link rel="stylesheet" href="../assets/sample.css?v=0.25.0">
+<link rel="stylesheet" href="../assets/fvp.css?v=0.25.0">
+<link rel="stylesheet" href="../assets/bge.css?v=0.25.0">
 
 
 
@@ -1487,7 +1487,7 @@ margin-block-end: 24px;
 var e="script#wp-emoji-settings",t=document.querySelector(e);if(!(t instanceof HTMLScriptElement))throw new Error("Element missing: "+e);const r=JSON.parse(t.text),s=(window._wpemojiSettings=r,"wpEmojiSettingsSupports"),o=["flag","emoji"];function i(e){try{var t={supportTests:e,timestamp:(new Date).valueOf()};sessionStorage.setItem(s,JSON.stringify(t))}catch(e){}}function c(e,t,n){e.clearRect(0,0,e.canvas.width,e.canvas.height),e.fillText(t,0,0);t=new Uint32Array(e.getImageData(0,0,e.canvas.width,e.canvas.height).data);e.clearRect(0,0,e.canvas.width,e.canvas.height),e.fillText(n,0,0);const r=new Uint32Array(e.getImageData(0,0,e.canvas.width,e.canvas.height).data);return t.every((e,t)=>e===r[t])}function p(e,t){e.clearRect(0,0,e.canvas.width,e.canvas.height),e.fillText(t,0,0);var n=e.getImageData(16,16,1,1);for(let e=0;e<n.data.length;e++)if(0!==n.data[e])return!1;return!0}function u(e,t,n,r){switch(t){case"flag":return n(e,"\ud83c\udff3\ufe0f\u200d\u26a7\ufe0f","\ud83c\udff3\ufe0f\u200b\u26a7\ufe0f")?!1:!n(e,"\ud83c\udde8\ud83c\uddf6","\ud83c\udde8\u200b\ud83c\uddf6")&&!n(e,"\ud83c\udff4\udb40\udc67\udb40\udc62\udb40\udc65\udb40\udc6e\udb40\udc67\udb40\udc7f","\ud83c\udff4\u200b\udb40\udc67\u200b\udb40\udc62\u200b\udb40\udc65\u200b\udb40\udc6e\u200b\udb40\udc67\u200b\udb40\udc7f");case"emoji":return!r(e,"\ud83e\u1fac8")}return!1}function f(e,t,n,r){let a;const s=(a="undefined"!=typeof WorkerGlobalScope&&self instanceof WorkerGlobalScope?new OffscreenCanvas(300,150):document.createElement("canvas")).getContext("2d",{willReadFrequently:!0}),o=(s.textBaseline="top",s.font="600 32px Arial",{});return e.forEach(e=>{o[e]=t(s,e,n,r)}),o}function a(e){var t=document.createElement("script");t.src=e,t.defer=!0,document.head.appendChild(t)}r.supports={everything:!0,everythingExceptFlag:!0},new Promise(t=>{let n=function(){try{var e=JSON.parse(sessionStorage.getItem(s));if("object"==typeof e&&"number"==typeof e.timestamp&&(new Date).valueOf()<e.timestamp+604800&&"object"==typeof e.supportTests)return e.supportTests}catch(e){}return null}();if(!n){if("undefined"!=typeof Worker&&"undefined"!=typeof OffscreenCanvas&&"undefined"!=typeof URL&&URL.createObjectURL&&"undefined"!=typeof Blob)try{var e="postMessage("+f.toString()+"("+[JSON.stringify(o),u.toString(),c.toString(),p.toString()].join(",")+"));",r=new Blob([e],{type:"text/javascript"});const a=new Worker(URL.createObjectURL(r),{name:"wpTestEmojiSupports"});return void(a.onmessage=e=>{i(n=e.data),a.terminate(),t(n)})}catch(e){}i(n=f(o,u,c,p))}t(n)}).then(e=>{for(const n in e)r.supports[n]=e[n],r.supports.everything=r.supports.everything&&r.supports[n],"flag"!==n&&(r.supports.everythingExceptFlag=r.supports.everythingExceptFlag&&r.supports[n]);var t;r.supports.everythingExceptFlag=r.supports.everythingExceptFlag&&!r.supports.flag,r.supports.everything||((t=r.source||{}).concatemoji?a(t.concatemoji):t.wpemoji&&t.twemoji&&(a(t.twemoji),a(t.wpemoji)))});
 //# sourceURL=https://hiyoshi-cocoromi-cl.jp/wp-includes/js/wp-emoji-loader.min.js
 </script>
-  <script src="../assets/bge.js?v=0.24.0" data-page="ent"></script>
+  <!-- 見本の左下の小窓は v0.25.0 で外した -->
 </body>
 </html>
 

diff --git a/beige/top/index.html b/beige/top/index.html
@@ -4,9 +4,9 @@
 <meta name="robots" content="noindex,nofollow">
 <script>document.documentElement.classList.add("fvp","fvr","fv2","fvL","bge");</script>
 
-<link rel="stylesheet" href="../assets/sample.css?v=0.24.0">
-<link rel="stylesheet" href="../assets/fvp.css?v=0.24.0">
-<link rel="stylesheet" href="../assets/bge.css?v=0.24.0">
+<link rel="stylesheet" href="../assets/sample.css?v=0.25.0">
+<link rel="stylesheet" href="../assets/fvp.css?v=0.25.0">
+<link rel="stylesheet" href="../assets/bge.css?v=0.25.0">
 
 
 
@@ -732,7 +732,7 @@ body>main#main-content{padding:50px 0}
 <!-- //#fat-nav -->
 <header id="header">
 	<div class="inner cbox">
-		<div><a class="hd-home" href="../top/"><img src="../assets/bge-logo-top.svg?v=0.24.0" width="109" height="107" alt="「こころみ」なら「ひと安心」医療法人社団こころみ"><span class="hd-sp-name">日吉駅前こころみクリニック</span></a></div>
+		<div><a class="hd-home" href="../top/"><img src="../assets/bge-logo-top.svg?v=0.25.0" width="109" height="107" alt="「こころみ」なら「ひと安心」医療法人社団こころみ"><span class="hd-sp-name">日吉駅前こころみクリニック</span></a></div>
 		<nav>
 			<ul>
 				<li><a href="../top/">ホーム</a></li>
@@ -1305,7 +1305,7 @@ body>main#main-content{padding:50px 0}
 <section class="access fadeIn_up cbox">
 	<iframe title="日吉駅前こころみクリニックの周辺地図" src="https://www.google.com/maps/embed?pb=!1m18!1m12!1m3!1d3246.0012979937496!2d139.64410251095356!3d35.55367013685724!2m3!1f0!2f0!3f0!3m2!1i1024!2i768!4f13.1!3m3!1m2!1s0x60185f9a1a706cf1%3A0xfc90943f08a2f0c0!2z5pel5ZCJ6aeF5YmN44GT44GT44KN44G_5raI5YyW5Zmo5YaF6KaW6Y-h44Kv44Oq44OL44OD44Kv!5e0!3m2!1sja!2sjp!4v1782695833012!5m2!1sja!2sjp" width="600" height="450" style="border:0;" allowfullscreen="" loading="lazy" referrerpolicy="strict-origin-when-cross-origin"></iframe>
 	<div class="text cbox">
-		<img loading="lazy" decoding="async" src="../assets/bge-logo-top.svg?v=0.24.0" width="109" height="107" alt="日吉駅前こころみクリニック">
+		<img loading="lazy" decoding="async" src="../assets/bge-logo-top.svg?v=0.25.0" width="109" height="107" alt="日吉駅前こころみクリニック">
 		<dl>
 			<dt>日吉駅前こころみクリニック</dt>
 			<dd>COCOROMI CLINIC Hiyoshi Ekimae<br><small>正式名称：日吉駅前こころみ消化器内視鏡クリニック 内科・耳鼻咽喉科・心療内科</small></dd>
@@ -1631,7 +1631,7 @@ body>main#main-content{padding:50px 0}
         </symbol>
       </defs>
     </svg>
-<script src="../assets/bge.js?v=0.24.0" data-page="top"></script>
+<!-- 見本の左下の小窓は v0.25.0 で外した -->
 </body>
 </html>
 
